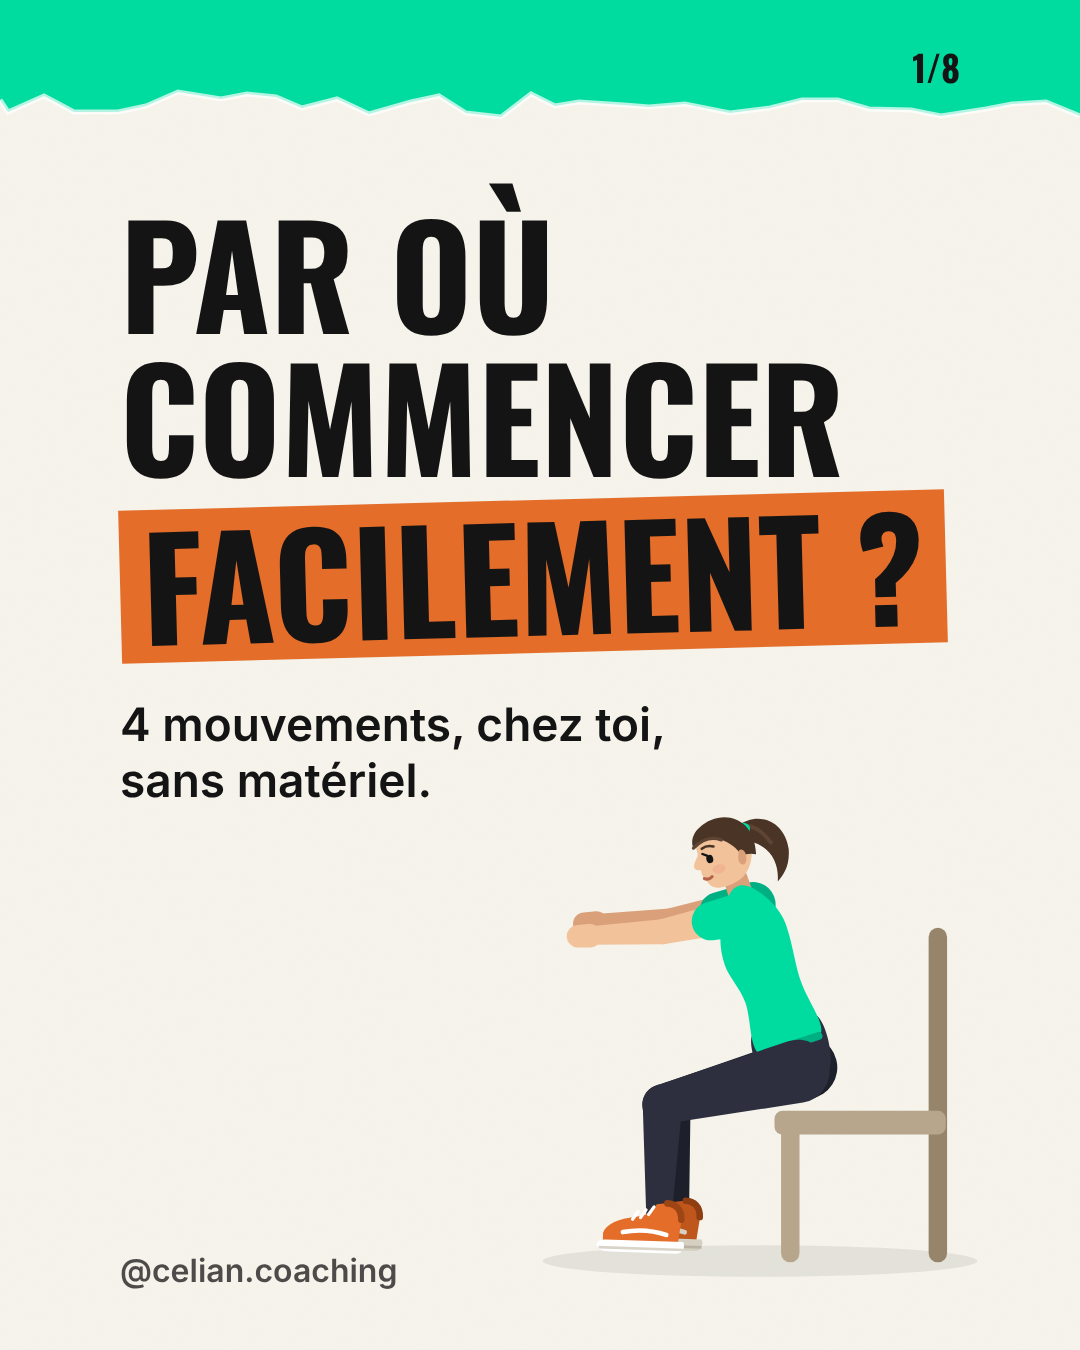
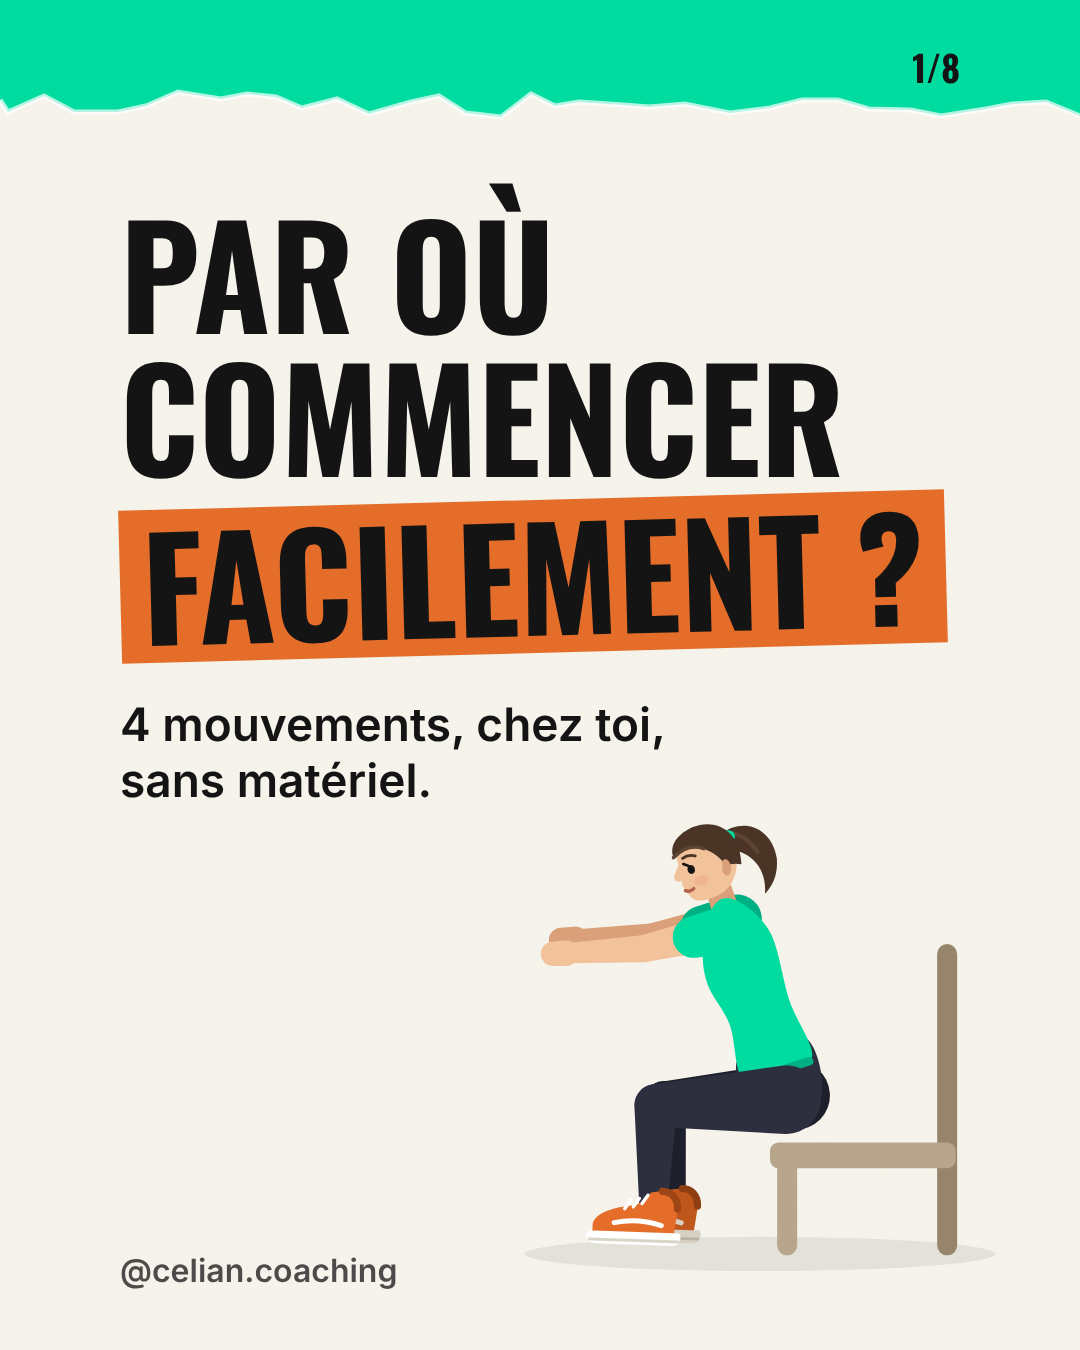
Characters: shorter legs for everyone, grandparents slightly shorter; carousel 01 poses retuned
Claude-Session: https://claude.ai/code/session_01EmtKGbXg2Rz9u67xYLS3c3

Changed region(s): [[0.4889, 0.5911, 0.8861, 0.9333], [0.55, 0.8089, 0.6722, 0.9333]]

diff --git a/.claude/instagram/carrousels/personnages.js b/.claude/instagram/carrousels/personnages.js
@@ -32,8 +32,8 @@ const TENUE = { bas: '#2d2f3e', basO: '#1d1f2a', chaussure: '#e46d29', chaussure
 const TYPES = {
   femme:     { nom: 'Femme',       taille: 1,   tete: 1,   carrure: 1,    poitrine: 1,   coiffure: 'queue',    haut: 'menthe', cil: true },
   homme:     { nom: 'Homme',       taille: 1.04, tete: 1,  carrure: 1.12, poitrine: .25, coiffure: 'court',    haut: 'citron' },
-  grandmere: { nom: 'Grand-mère',  taille: .97, tete: 1,   carrure: 1.05, poitrine: .9,  coiffure: 'chignon',  haut: 'menthe', cil: true, gris: true, lunettes: true, rides: true },
-  grandpere: { nom: 'Grand-père',  taille: 1.01, tete: 1,  carrure: 1.1,  poitrine: .2,  coiffure: 'degarni',  haut: 'citron', gris: true, lunettes: true, rides: true, moustache: true },
+  grandmere: { nom: 'Grand-mère',  taille: .92, tete: 1,   carrure: 1.05, poitrine: .9,  coiffure: 'chignon',  haut: 'menthe', cil: true, gris: true, lunettes: true, rides: true },
+  grandpere: { nom: 'Grand-père',  taille: .95, tete: 1,  carrure: 1.1,  poitrine: .2,  coiffure: 'degarni',  haut: 'citron', gris: true, lunettes: true, rides: true, moustache: true },
   garcon:    { nom: 'Garçon',      taille: .66, tete: 1.32, carrure: .94, poitrine: 0,   coiffure: 'epis',     haut: 'citron' },
   fille:     { nom: 'Fille',       taille: .66, tete: 1.32, carrure: .94, poitrine: 0,   coiffure: 'couettes', haut: 'menthe', cil: true },
 };
@@ -168,7 +168,7 @@ function tete(C, t, dir, angle = 0) {
 
 // squelette aux proportions fixes : on donne le bassin, l'angle du buste,
 // et où vont mains et chevilles ; coudes et genoux se placent tout seuls.
-const L = { tronc: 130, cou: 44, bras: 64, avantBras: 56, cuisse: 106, tibia: 95, pied: 36 };
+const L = { tronc: 130, cou: 44, bras: 62, avantBras: 54, cuisse: 92, tibia: 80, pied: 36 };
 const vec = (deg, l) => [Math.cos(deg * Math.PI / 180) * l, Math.sin(deg * Math.PI / 180) * l];
 function ik(a, cible, l1, l2, pli) {
   const d = Math.min(Math.hypot(cible[0] - a[0], cible[1] - a[1]), l1 + l2 - .5);
@@ -195,23 +195,23 @@ function squelette(s) {
 
 const POSES = {
   debout: {
-    dir: 1, hanche: [300, 182], tronc: -90, regard: 0, sol: [300, 398],
+    dir: 1, hanche: [300, 209], tronc: -90, regard: 0, sol: [300, 398],
     jambe: { cheville: [304, 460], pied: 0, pli: 1 },
     jambeLoin: { cheville: [290, 460], pied: 0, pli: 1 },
     bras: { main: [312, 400], pli: -1 },
     brasLoin: { main: [290, 400], pli: -1 },
   },
   squat: {
-    dir: -1, hanche: [344, 262], tronc: 252, regard: 4, sol: [245, 398],
-    jambe: { cheville: [238, 382], pied: 182, pli: 1 },
-    jambeLoin: { cheville: [252, 380], pied: 182, pli: 1 },
-    bras: { main: [168, 160], pli: -1 },
-    brasLoin: { main: [178, 150], pli: -1 },
+    dir: -1, hanche: [334, 298], tronc: 252, regard: 4, sol: [245, 398],
+    jambe: { cheville: [240, 382], pied: 182, pli: 1 },
+    jambeLoin: { cheville: [254, 380], pied: 182, pli: 1 },
+    bras: { main: [170, 196], pli: -1 },
+    brasLoin: { main: [180, 186], pli: -1 },
   },
   mur: {
-    dir: 1, hanche: [314, 256], tronc: -40, regard: 6, sol: [155, 398],
-    jambe: { cheville: [160, 386], pied: 0, pli: 1 },
-    jambeLoin: { cheville: [150, 388], pied: 0, pli: 1 },
+    dir: 1, hanche: [320, 262], tronc: -44, regard: 6, sol: [196, 398],
+    jambe: { cheville: [140, 436], pied: 0, pli: 1 },
+    jambeLoin: { cheville: [132, 440], pied: 0, pli: 1 },
     bras: { main: [484, 174], pli: 1 },
     brasLoin: { main: [484, 162], pli: 1 },
   },
@@ -223,9 +223,9 @@ const POSES = {
     brasLoin: { main: [468, 384], pli: 1 },
   },
   birddog: {
-    dir: 1, hanche: [272, 277], tronc: -5, regard: 10, nuque: 6, sol: [300, 398],
-    jambe: { cheville: [60, 266], pied: 92, pli: 1 },
-    jambeLoin: { cheville: [174, 368], pied: 125, pli: -1 },
+    dir: 1, hanche: [272, 291], tronc: -9, regard: 12, nuque: 8, sol: [300, 398],
+    jambe: { cheville: [60, 270], pied: 92, pli: 1 },
+    jambeLoin: { cheville: [190, 362], pied: 125, pli: -1 },
     bras: { main: [404, 420], pli: 1 },
     brasLoin: { main: [560, 246], pli: 1 },
   },

diff --git a/.claude/instagram/carrousels/01-4-mouvements/slides.html b/.claude/instagram/carrousels/01-4-mouvements/slides.html
@@ -190,13 +190,13 @@ const tapis = (x1, x2) => `<rect x="${x1}" y="398" width="${x2 - x1}" height="12
 const POSES = {
   squat: {
     decor: () => ombreSol(150, 480)
-      + seg([450, 300], [450, 400], 14, C.meubleO) + seg([450, 300], [450, 160], 14, C.meubleO)
-      + `<rect x="326" y="292" width="130" height="18" rx="6" fill="${C.meuble}"/>`
-      + seg([338, 300], [338, 400], 14, C.meuble),
-    notes: () => note(410, 120, ['Dos droit'], [430, 132], [346, 206], [420, 190])
-      + note(20, 250, ['Sans', 'les mains'], [70, 220], [160, 170], [100, 180])
+      + seg([446, 336], [446, 400], 14, C.meubleO) + seg([446, 336], [446, 196], 14, C.meubleO)
+      + `<rect x="322" y="328" width="130" height="18" rx="6" fill="${C.meuble}"/>`
+      + seg([334, 336], [334, 400], 14, C.meuble),
+    notes: () => note(410, 150, ['Dos droit'], [430, 162], [340, 242], [420, 226])
+      + note(20, 290, ['Sans', 'les mains'], [70, 260], [160, 206], [100, 216])
       + note(20, 440, ['Pieds à plat'], [150, 420], [214, 404], [184, 430])
-      + note(480, 220, ['Les fesses', 'frôlent la chaise'], [530, 260], [372, 282], [480, 300]),
+      + note(480, 250, ['Les fesses', 'frôlent la chaise'], [530, 290], [362, 318], [480, 330]),
   },
   mur: {
     decor: () => ombreSol(130, 520) + `<rect x="502" y="30" width="40" height="376" fill="#e4dcc6"/><rect x="502" y="30" width="8" height="376" fill="#cbc0a3"/>`,
